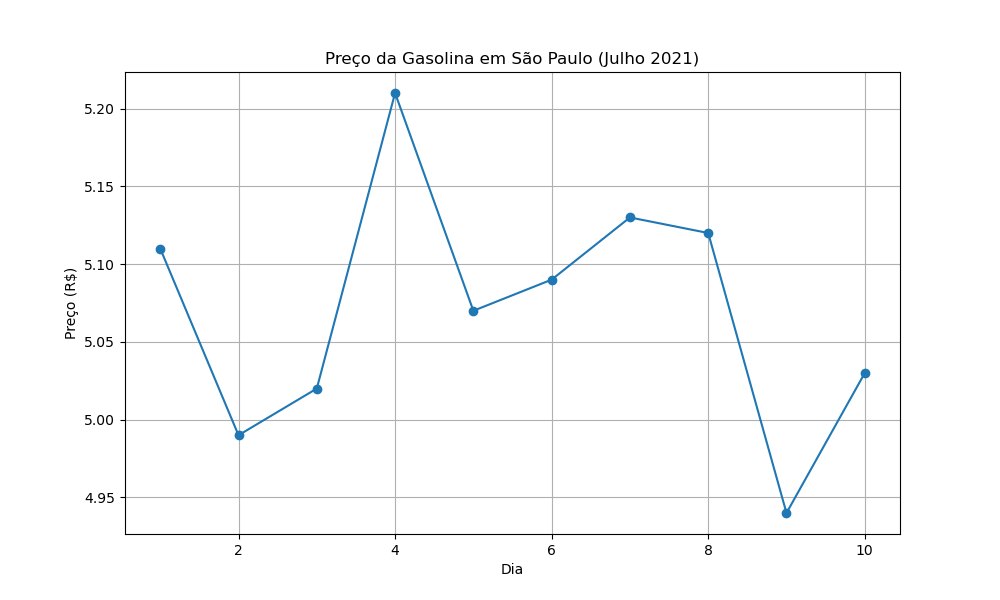
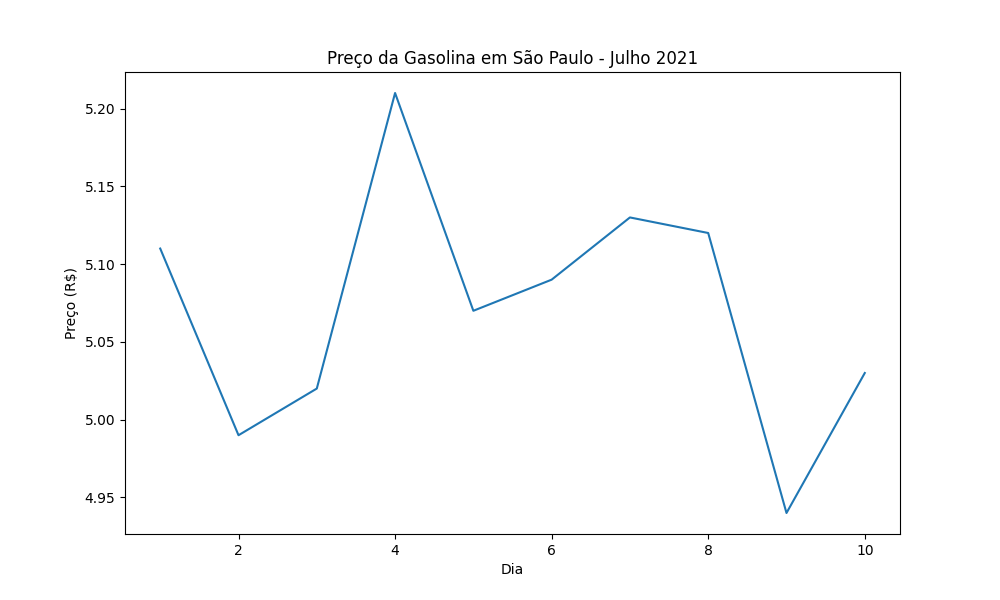
Adiciona gráfico de preço da gasolina

diff --git a/gasolina.py b/gasolina.py
@@ -1,0 +1,14 @@
+
+import pandas as pd
+import seaborn as sns
+import matplotlib.pyplot as plt
+
+df = pd.read_csv('gasolina.csv')
+
+plt.figure(figsize=(10, 6))
+sns.lineplot(data=df, x='dia', y='venda')
+plt.title('Preço da Gasolina em São Paulo - Julho 2021')
+plt.xlabel('Dia')
+plt.ylabel('Preço (R$)')
+plt.savefig('gasolina.png')
+plt.show()
